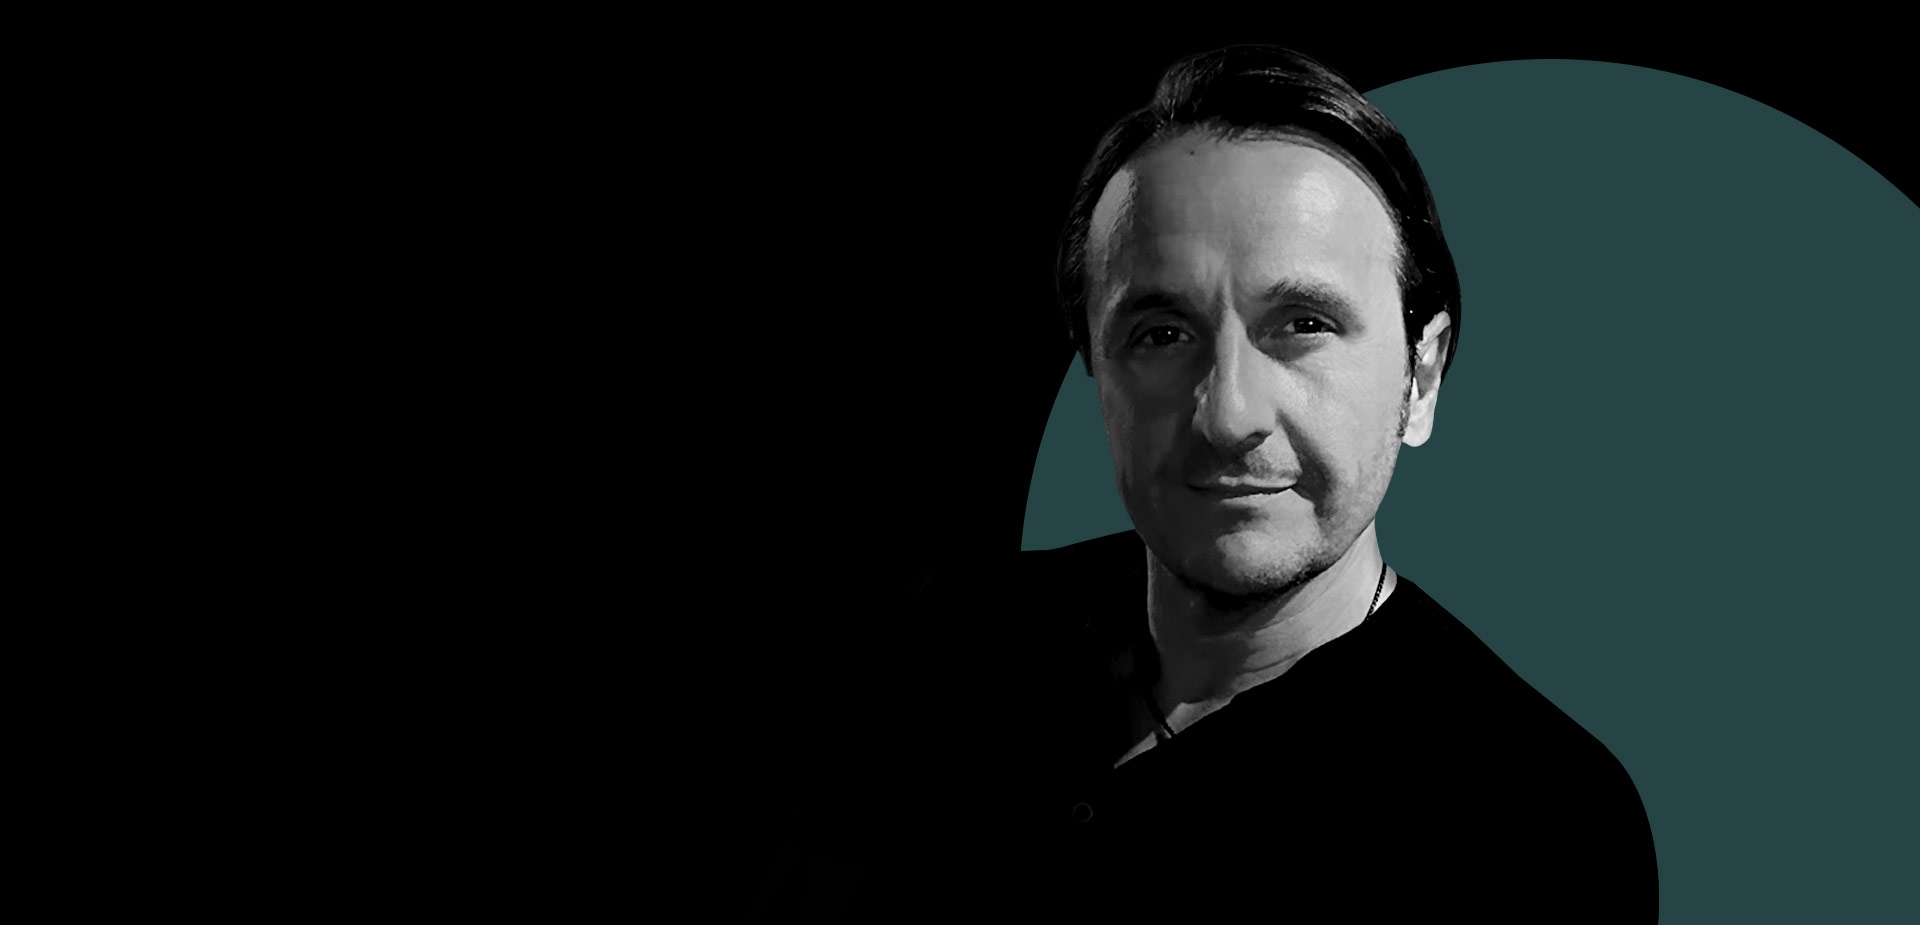
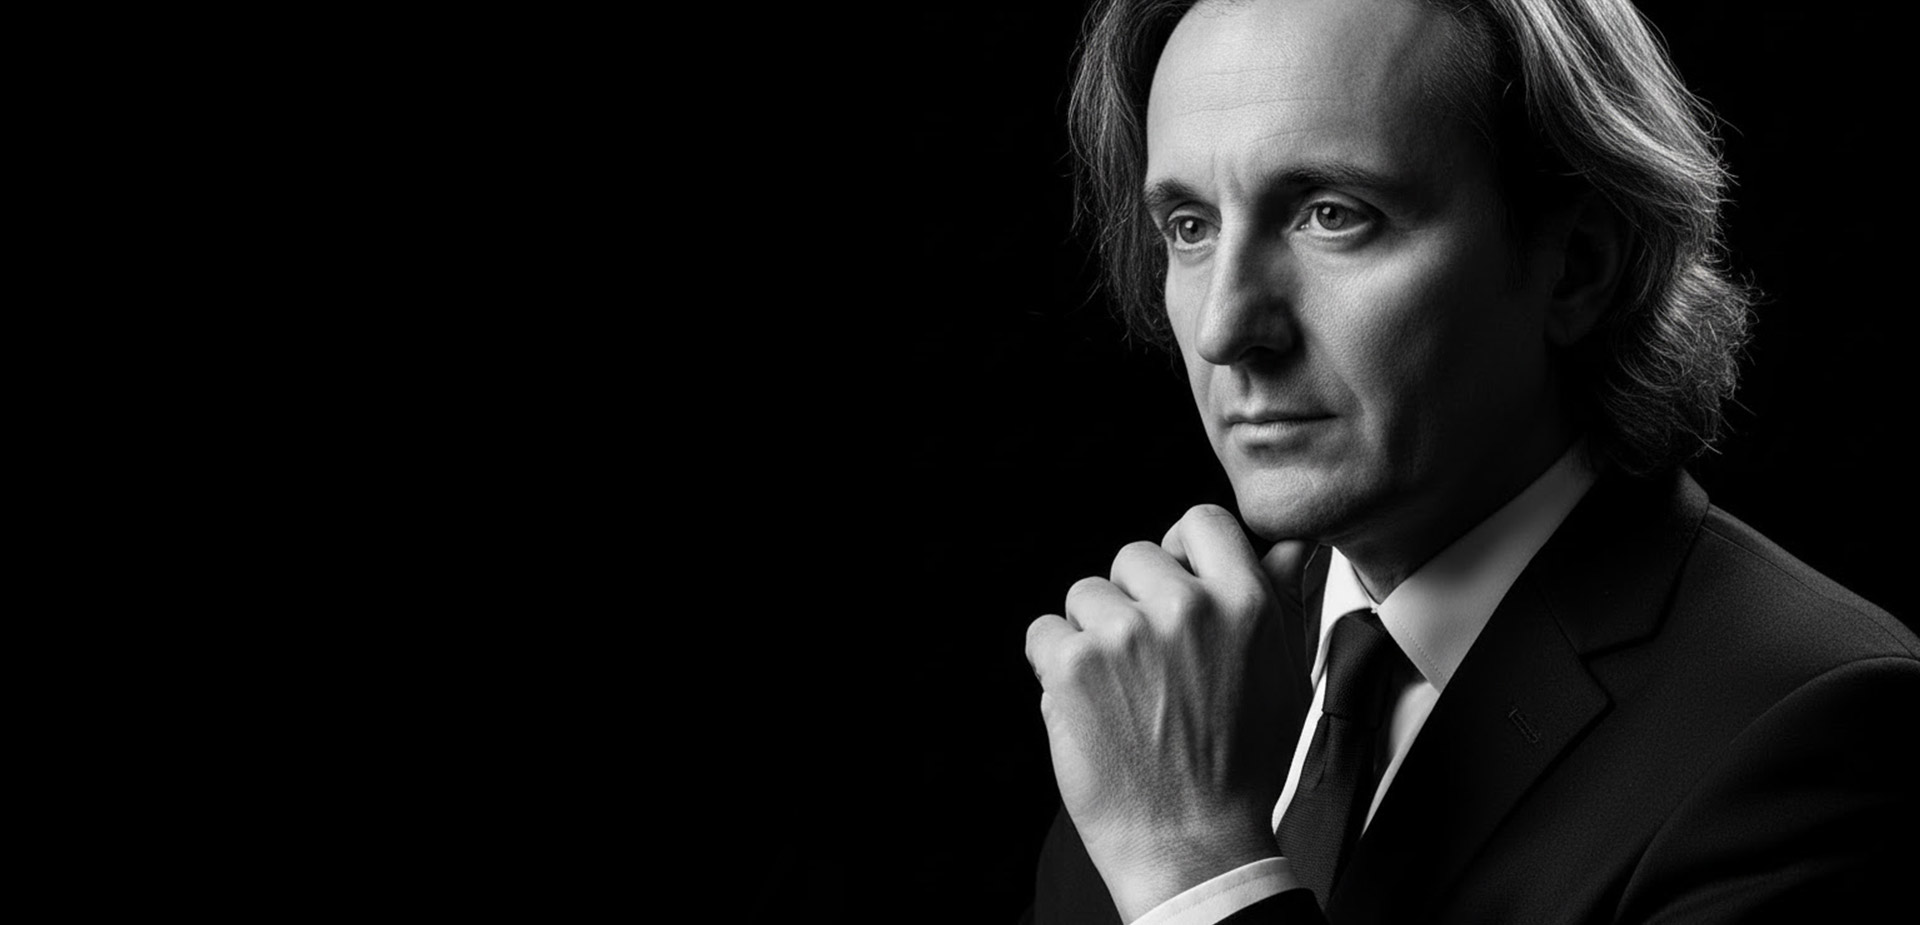
Image updates

diff --git a/index.html b/index.html
@@ -17,14 +17,14 @@
     <meta property="og:url" content="https://sorbellocreative.com/" />
     <meta property="og:type" content="website" />
     <meta name="title" property="og:title" content="Frank Sorbello - Creative Professional" />
-    <meta name="image" property="og:image" content="https://sorbellocreative.com/images/FRS-Share.jpg"/>
+    <meta name="image" property="og:image" content="https://fsorbello.github.io/images/FRS-Share.jpg"/>
     <meta property="og:image:type" content="image/jpg">
     <meta property="og:image:width" content="1200">
     <meta property="og:image:height" content="628">
     <meta name="description" property="og:description" content="With over 25 years experience in creating meaningful and thoughtful designs and a history of creative leadership, I'm continually fascinated by how design can solve the needs of my audience. I’m motivated ... and a motivator ... who thrives in fast-paced environments where I can roll up my sleeves and work with my team to get the job done." />
     
 
-    <link rel="image_src" href="https://sorbellocreative.com/images/FRS-Share.jpg" />
+    <link rel="image_src" href="https://fsorbello.github.io/images/FRS-Share.jpg" />
 
     <!-- Title Page-->
     <title>Frank Sorbello - Creative Professional</title>
@@ -1139,6 +1139,8 @@
                                                     <div class="js-slick slick-arrow-style-2" data-slick-lg="1" data-slick-dots="true" data-slick-arrows="true" data-slick-prevarrow="&lt;i class='arrow arrow-prev arrow_carrot-left'&gt;&lt;/i&gt;" data-slick-nextarrow="&lt;i class='arrow arrow-next arrow_carrot-right'&gt;&lt;/i&gt;"
                                                     data-slick-dotsclass="slick-dots-2">
                                                         <div class="project-image-item">
+                                                            <img class="img-fluid" src="images/project-post-VANGUARD-06.jpg" alt="Vanguard Roth Conversion Calculator">
+                                                        </div><div class="project-image-item">
                                                             <img class="img-fluid" src="images/project-post-VANGUARD-02.jpg" alt="Vanguard Health Care Cost Estimator">
                                                         </div>
                                                          <div class="project-image-item">
